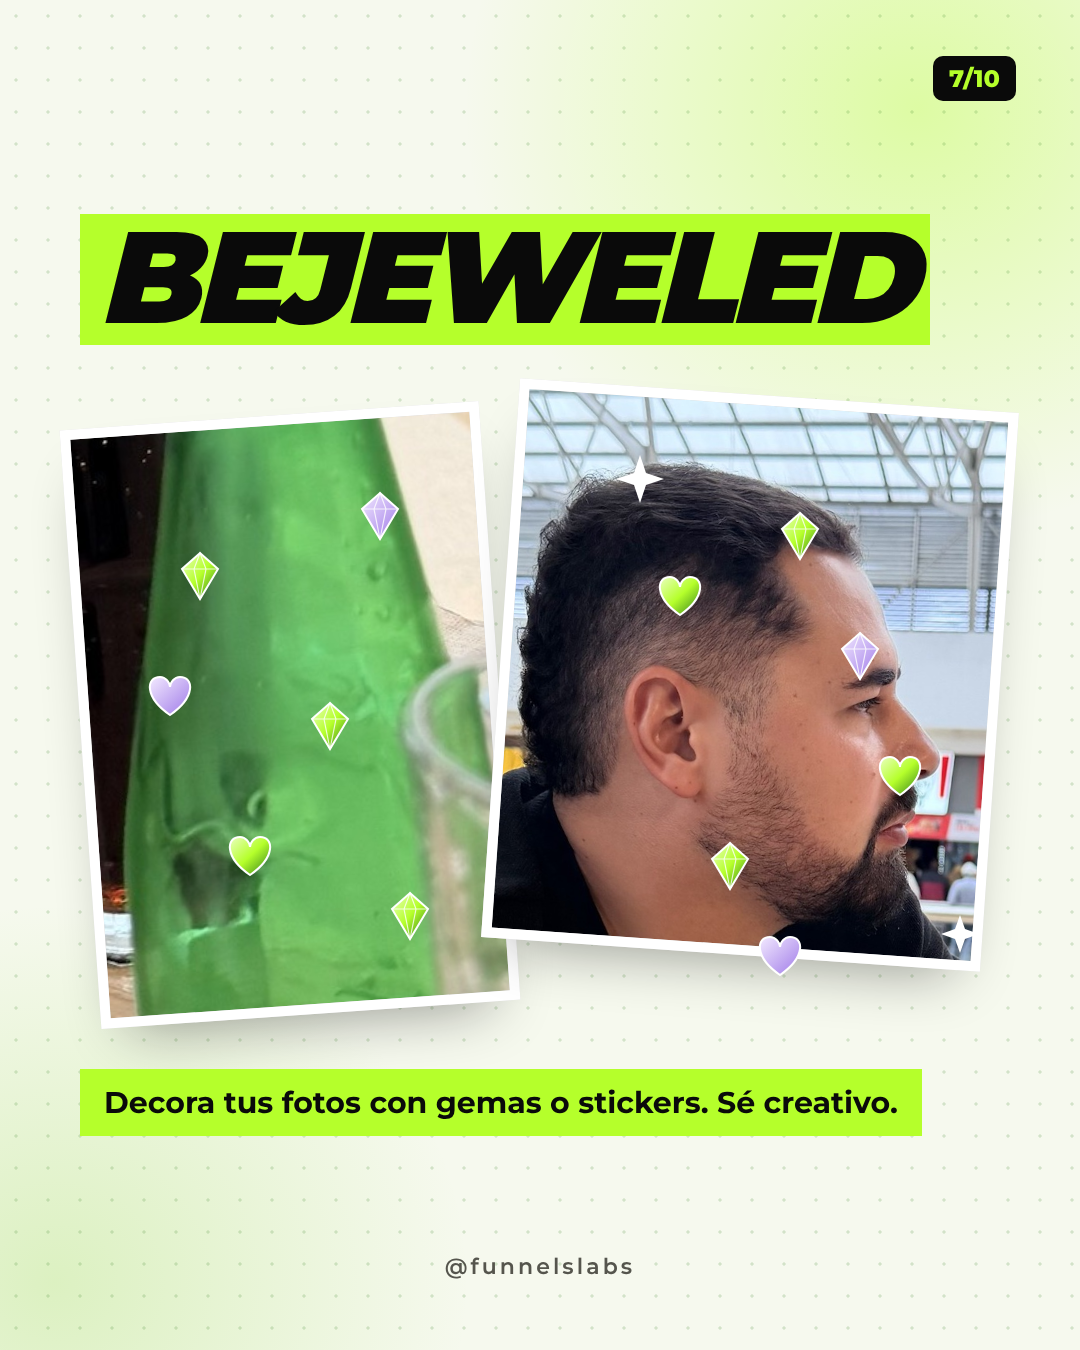
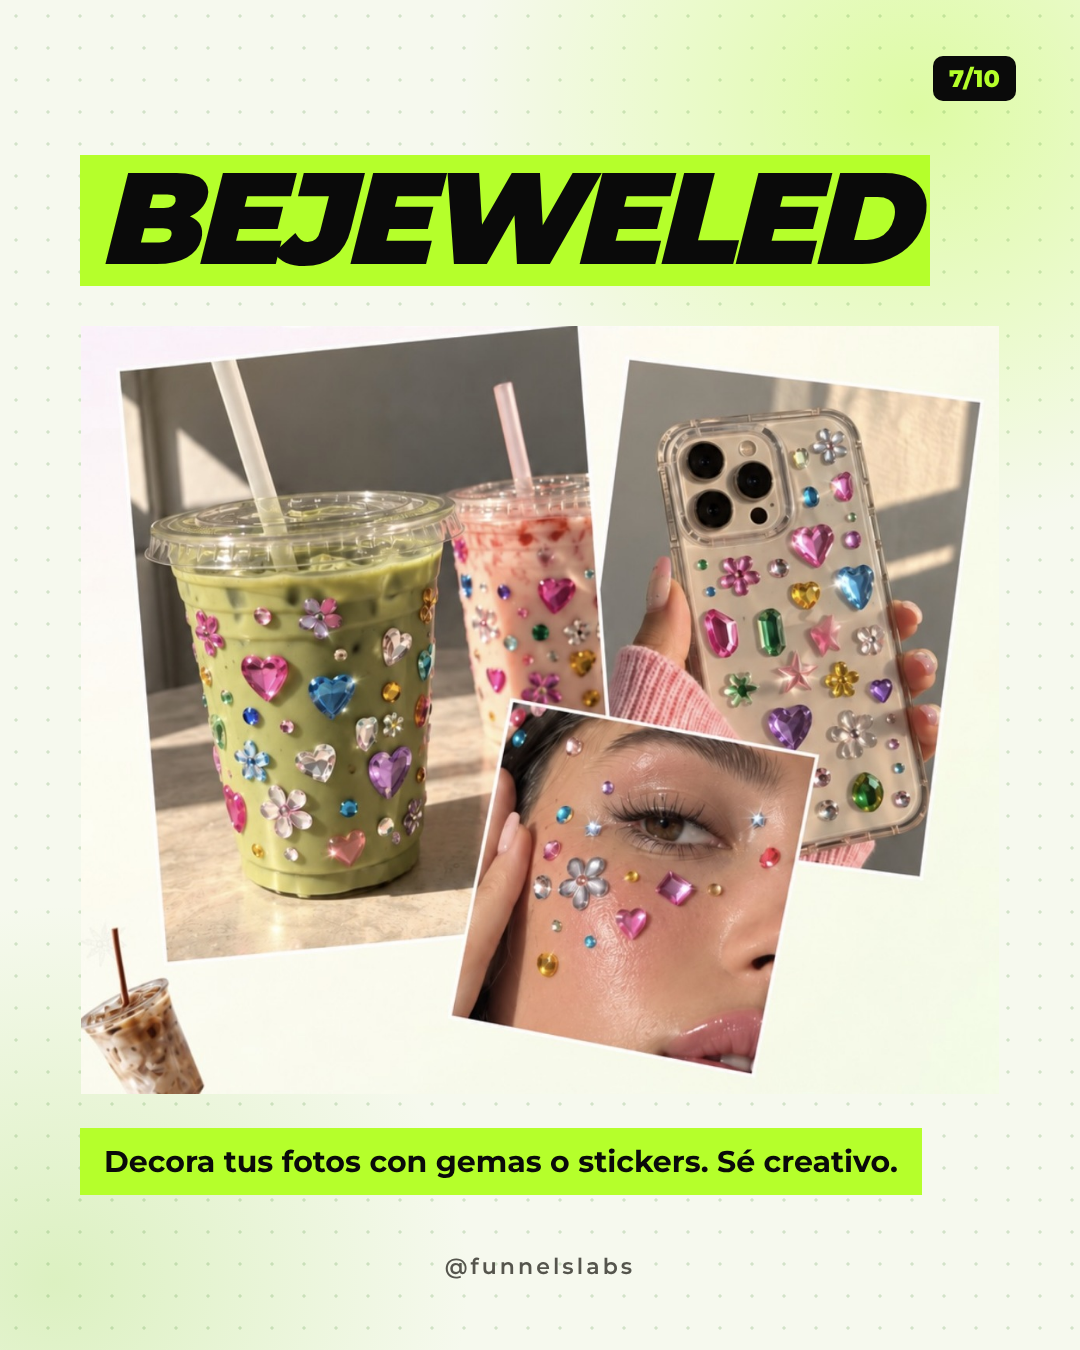
Ideas carruseles: imágenes del referente en verde, portada con foto completa
Claude-Session: https://claude.ai/code/session_018d4LXHkXweDJXxfN5x99dL

diff --git a/carruseles/ideas-carruseles/carrusel.html b/carruseles/ideas-carruseles/carrusel.html
@@ -23,14 +23,14 @@ body{background:#d9d9d2;font-family:"Montserrat",Arial,sans-serif;color:var(--in
 <!-- 1 PORTADA -->
 <section class="slide" style="padding:0">
   <img src="img/yo.jpg" style="position:absolute;inset:0;width:100%;height:100%;object-fit:cover;object-position:40% 30%">
-  <div style="position:absolute;inset:0;background:linear-gradient(180deg,rgba(246,249,238,0) 30%,rgba(246,249,238,.55) 52%,rgba(246,249,238,.96) 70%)"></div>
+  <div style="position:absolute;inset:0;background:linear-gradient(180deg,rgba(0,0,0,0) 45%,rgba(0,0,0,.55) 100%)"></div>
   <div class="n" style="background:var(--lime);color:var(--ink)">1/10</div>
-  <div style="position:absolute;left:64px;right:64px;bottom:90px">
+  <div style="position:absolute;left:64px;right:64px;bottom:80px;color:#fff;text-shadow:0 4px 24px rgba(0,0,0,.45)">
     <div class="T" style="font-size:132px">8 ideas de</div>
-    <div class="T hl" style="font-size:146px;margin-top:14px">carruseles</div>
+    <div class="T hl" style="font-size:146px;margin-top:14px;color:#0a0a0a;text-shadow:none">carruseles</div>
     <div class="T" style="font-size:92px;margin-top:20px">y posts en tendencia</div>
     <div style="font-weight:600;font-size:30px;letter-spacing:.32em;text-transform:uppercase;margin-top:28px">para tu negocio</div>
-    <div style="font-weight:600;font-size:22px;letter-spacing:.14em;color:#55554d;margin-top:36px">@funnelslabs</div>
+    <div style="font-weight:600;font-size:22px;letter-spacing:.14em;color:#e8e8e2;margin-top:36px">@funnelslabs</div>
   </div>
 </section>
 
@@ -39,15 +39,9 @@ body{background:#d9d9d2;font-family:"Montserrat",Arial,sans-serif;color:var(--in
   <div class="n">2/10</div>
   <div class="T" style="font-size:118px">Fondo</div>
   <div class="T hl" style="font-size:132px;align-self:flex-start;margin-top:10px">animado</div>
-  <div style="display:flex;gap:24px;margin-top:46px;align-items:flex-end">
-    <div class="ph" style="width:560px;height:620px;background:#eef6dd">
-      <svg style="position:absolute;inset:0" width="560" height="620" viewBox="0 0 560 620"><polygon fill="#b5ff2b" points="280,20 320,170 450,60 390,210 545,190 420,290 540,400 395,385 450,560 320,440 280,600 240,440 110,560 165,385 20,400 140,290 15,190 170,210 110,60 240,170"/><polygon fill="#7fd321" opacity=".55" points="280,120 305,220 380,160 345,250 440,245 360,300 430,370 345,355 375,460 300,385 280,490 260,385 185,460 215,355 130,370 200,300 120,245 215,250 180,160 255,220"/></svg>
-      <img src="img/cara.jpg" style="position:absolute;left:70px;top:90px;width:420px;height:440px;object-fit:cover;border-radius:24px;inset:auto;border:10px solid #fff">
-    </div>
-    <div class="ph" style="width:316px;height:460px;background:#fff">
-      <img src="img/botella.jpg" style="object-position:50% 40%">
-      <svg style="position:absolute;inset:0" width="316" height="460"><g fill="#b5ff2b" stroke="#0a0a0a" stroke-width="2"><circle cx="34" cy="40" r="14"/><circle cx="270" cy="70" r="18"/><circle cx="40" cy="210" r="12"/><circle cx="286" cy="230" r="14"/><circle cx="60" cy="400" r="16"/><circle cx="262" cy="410" r="12"/><circle cx="150" cy="30" r="10"/></g></svg>
-    </div>
+  <div style="display:flex;gap:20px;margin-top:46px;align-items:flex-end">
+    <div class="ph" style="width:620px;height:704px"><img src="ref/r2a.jpg"></div>
+    <div class="ph" style="width:300px;height:360px"><img src="ref/r2b.jpg"></div>
   </div>
   <div class="cap">Interviene el fondo para que la foto se vea más dinámica.</div>
   <div class="handle">@funnelslabs</div>
@@ -57,16 +51,9 @@ body{background:#d9d9d2;font-family:"Montserrat",Arial,sans-serif;color:var(--in
 <section class="slide">
   <div class="n">3/10</div>
   <div class="T hl" style="font-size:160px;align-self:flex-start">Sorbo</div>
-  <div style="display:flex;gap:24px;margin-top:50px">
-    <div class="ph" style="width:450px;height:560px;background:radial-gradient(circle at 50% 50%,#e9ffc4 0 40%,#7fd321 60%,#2f7a1c 100%)">
-      <div style="position:absolute;left:55px;top:90px;width:340px;height:340px;border-radius:50%;overflow:hidden;box-shadow:0 0 0 18px rgba(255,255,255,.55),0 0 0 34px rgba(181,255,43,.6),inset 0 0 40px rgba(0,0,0,.25)"><img src="img/cara.jpg" style="object-position:60% 40%"></div>
-      <div style="position:absolute;left:214px;top:300px;width:22px;height:280px;background:linear-gradient(90deg,#fff,#d9f7a8);border-radius:10px;transform:rotate(8deg);opacity:.9"></div>
-      <svg style="position:absolute;inset:0" width="450" height="560"><g fill="#fff" opacity=".7"><rect x="40" y="440" width="70" height="70" rx="14" transform="rotate(18 75 475)"/><rect x="330" y="430" width="80" height="80" rx="14" transform="rotate(-14 370 470)"/><rect x="20" y="40" width="54" height="54" rx="12" transform="rotate(30 47 67)"/></g></svg>
-    </div>
-    <div class="ph" style="width:450px;height:560px;background:radial-gradient(circle at 50% 50%,#ffffff 0 38%,#c9f27a 60%,#4f9e22 100%)">
-      <div style="position:absolute;left:55px;top:90px;width:340px;height:340px;border-radius:50%;overflow:hidden;box-shadow:0 0 0 18px rgba(255,255,255,.6),0 0 0 34px rgba(127,211,33,.5),inset 0 0 40px rgba(0,0,0,.25)"><img src="img/botella.jpg" style="object-position:50% 25%"></div>
-      <div style="position:absolute;left:214px;top:300px;width:22px;height:280px;background:linear-gradient(90deg,#b5ff2b,#2f7a1c);border-radius:10px;transform:rotate(-6deg)"></div>
-    </div>
+  <div style="display:flex;gap:20px;margin-top:50px">
+    <div class="ph" style="width:450px;height:560px"><img src="ref/r3a.jpg"></div>
+    <div class="ph" style="width:450px;height:560px"><img src="ref/r3b.jpg"></div>
   </div>
   <div class="cap">Toma la foto como si la viéramos desde adentro del vaso.</div>
   <div class="handle">@funnelslabs</div>
@@ -76,21 +63,7 @@ body{background:#d9d9d2;font-family:"Montserrat",Arial,sans-serif;color:var(--in
 <section class="slide">
   <div class="n">4/10</div>
   <div class="T" style="font-size:118px;margin-top:40px">Piedra, papel o…</div>
-  <div style="display:flex;gap:18px;margin-top:50px">
-    <div style="flex:1;height:520px;background:#e5f8c2;display:flex;flex-direction:column;align-items:center;padding-top:40px" class="ph">
-      <div class="T" style="font-size:60px;color:var(--g3)">Piedra</div>
-      <svg width="200" height="200" viewBox="0 0 100 100" style="margin-top:70px"><path d="M18 62 L26 30 L48 18 L74 26 L86 50 L78 76 L50 86 L26 80 Z" fill="#9a9a92"/><path d="M26 30 L48 40 L74 26 M48 40 L50 86" stroke="#7a7a72" stroke-width="2" fill="none"/></svg>
-    </div>
-    <div style="flex:1;height:520px;background:#e5f8c2;display:flex;flex-direction:column;align-items:center;padding-top:40px" class="ph">
-      <div class="T" style="font-size:60px;color:var(--g3)">Papel</div>
-      <svg width="190" height="220" viewBox="0 0 90 110" style="margin-top:60px"><path d="M12 8h46l20 20v74H12z" fill="#fff" stroke="#0a0a0a" stroke-width="3"/><path d="M58 8v20h20" fill="none" stroke="#0a0a0a" stroke-width="3"/><path d="M24 48h42M24 62h42M24 76h30" stroke="#9a9a92" stroke-width="4" stroke-linecap="round"/></svg>
-    </div>
-    <div style="flex:1;height:520px;background:var(--lime)" class="ph">
-      <img src="img/botella.jpg" style="object-position:50% 45%;mix-blend-mode:multiply;opacity:.95">
-      <div style="position:absolute;left:50%;top:52%;transform:translate(-50%,-50%) rotate(-6deg);background:#fff;border:3px solid var(--ink);padding:10px 14px;text-align:center"><div class="T" style="font-size:38px;line-height:.95">Tu<br>marca<br>aquí</div></div>
-      <svg style="position:absolute;left:30px;top:24px" width="240" height="80"><g stroke="#0a0a0a" stroke-width="6" stroke-linecap="round"><path d="M20 60 L45 20"/><path d="M215 60 L190 20"/></g></svg>
-    </div>
-  </div>
+  <div class="ph" style="width:920px;height:400px;margin-top:50px"><img src="ref/r4.jpg"></div>
   <div class="cap">Termina con tu producto o con la solución que ofreces.</div>
   <div class="handle">@funnelslabs</div>
 </section>
@@ -99,13 +72,9 @@ body{background:#d9d9d2;font-family:"Montserrat",Arial,sans-serif;color:var(--in
 <section class="slide">
   <div class="n">5/10</div>
   <div class="T" style="font-size:150px;margin-top:20px">La <span class="hl">pieza</span></div>
-  <div class="ph" style="width:920px;height:620px;margin-top:50px">
-    <img src="img/yo.jpg" style="object-position:40% 32%">
-    <svg style="position:absolute;inset:0" width="920" height="620" viewBox="0 0 920 620">
-      <g stroke="#fff" stroke-width="5" fill="none" opacity=".9"><path d="M307 0v620M613 0v620M0 310h920"/></g>
-      <path d="M613 330 h55 a28 28 0 1 1 56 0 h55 v90 a28 28 0 1 0 0 56 v90 h-90 a28 28 0 1 1 -56 0 h-20 z" fill="#f6f9ee" stroke="#b5ff2b" stroke-width="6"/>
-      <g transform="translate(700 70) rotate(18)"><path d="M0 0 h50 a26 26 0 1 1 52 0 h50 v80 a26 26 0 1 0 0 52 v80 h-152 z" fill="#b5ff2b" stroke="#0a0a0a" stroke-width="4"/></g>
-    </svg>
+  <div style="display:flex;gap:20px;margin-top:50px">
+    <div class="ph" style="width:450px;height:580px"><img src="ref/r5a.jpg"></div>
+    <div class="ph" style="width:450px;height:580px"><img src="ref/r5b.jpg"></div>
   </div>
   <div class="cap">Funciona muy bien si tienes fotos llamativas de tu negocio.</div>
   <div class="handle">@funnelslabs</div>
@@ -116,16 +85,8 @@ body{background:#d9d9d2;font-family:"Montserrat",Arial,sans-serif;color:var(--in
   <div class="n">6/10</div>
   <div class="T" style="font-size:120px;margin-top:20px">Agarra la</div>
   <div class="T" style="font-size:150px;color:var(--g3)">story</div>
-  <div class="ph" style="width:920px;height:640px;margin-top:40px">
-    <img src="img/yo.jpg" style="object-position:40% 60%">
-    <div style="position:absolute;left:-20px;right:-20px;top:70px;transform:rotate(-4deg);background:#0a0a0a;padding:22px 40px;display:flex;gap:34px;box-shadow:0 30px 50px -20px rgba(0,0,0,.6)">
-      <div style="text-align:center"><div style="width:120px;height:120px;border-radius:50%;background:#2a2a2a;box-shadow:0 0 0 5px #0a0a0a,0 0 0 9px #555"></div><div style="color:#fff;font-size:18px;margin-top:10px">Tu historia</div></div>
-      <div style="text-align:center;transform:scale(1.18) translateY(-6px)"><div style="width:120px;height:120px;border-radius:50%;overflow:hidden;box-shadow:0 0 0 5px #0a0a0a,0 0 0 10px #b5ff2b"><img src="img/cara.jpg" style="width:100%;height:100%;object-fit:cover;position:static"></div><div style="color:#fff;font-size:18px;margin-top:10px;font-weight:700">funnelslabs</div></div>
-      <div style="text-align:center"><div style="width:120px;height:120px;border-radius:50%;background:linear-gradient(135deg,#b5ff2b,#2f7a1c);box-shadow:0 0 0 5px #0a0a0a,0 0 0 9px #7fd321"></div><div style="color:#fff;font-size:18px;margin-top:10px">tips</div></div>
-      <div style="text-align:center"><div style="width:120px;height:120px;border-radius:50%;background:linear-gradient(135deg,#e5f8c2,#7fd321);box-shadow:0 0 0 5px #0a0a0a,0 0 0 9px #7fd321"></div><div style="color:#fff;font-size:18px;margin-top:10px">clientes</div></div>
-      <div style="text-align:center"><div style="width:120px;height:120px;border-radius:50%;background:linear-gradient(135deg,#c9a9ff,#b5ff2b);box-shadow:0 0 0 5px #0a0a0a,0 0 0 9px #7fd321"></div><div style="color:#fff;font-size:18px;margin-top:10px">ofertas</div></div>
-    </div>
-  </div>
+  <div class="ph" style="width:920px;height:740px;margin-top:40px;box-shadow:none;background:transparent"><img src="ref/r6.jpg">
+    <div style="position:absolute;left:332px;top:228px;width:180px;height:42px;background:#0a0a0a;transform:rotate(4.5deg);display:flex;align-items:center;justify-content:center;color:#fff;font-size:22px;font-weight:700">funnelslabs</div></div>
   <div class="cap">Usa las stories como gancho visual.</div>
   <div class="handle">@funnelslabs</div>
 </section>
@@ -134,19 +95,7 @@ body{background:#d9d9d2;font-family:"Montserrat",Arial,sans-serif;color:var(--in
 <section class="slide">
   <div class="n">7/10</div>
   <div class="T hl" style="font-size:130px;align-self:flex-start;margin-top:20px;font-style:italic">Bejeweled</div>
-  <div style="position:relative;height:640px;margin-top:50px">
-    <div class="ph" style="position:absolute;left:0;top:20px;width:420px;height:600px;transform:rotate(-4deg);border:10px solid #fff"><img src="img/botella.jpg" style="object-position:50% 40%"></div>
-    <div class="ph" style="position:absolute;right:0;top:0;width:500px;height:560px;transform:rotate(4deg);border:10px solid #fff"><img src="img/cara.jpg"></div>
-    <svg style="position:absolute;inset:0" width="920" height="640">
-      <defs><linearGradient id="gm" x1="0" y1="0" x2="1" y2="1"><stop offset="0" stop-color="#eaffc0"/><stop offset=".5" stop-color="#b5ff2b"/><stop offset="1" stop-color="#2f7a1c"/></linearGradient>
-      <linearGradient id="gm2" x1="0" y1="0" x2="1" y2="1"><stop offset="0" stop-color="#f3eaff"/><stop offset="1" stop-color="#9f7ae8"/></linearGradient>
-      <g id="dia"><path d="M0 -22 L18 -6 L0 24 L-18 -6 Z" stroke="#fff" stroke-width="2"/><path d="M-18 -6 H18 M0 -22 L-6 -6 L0 24 L6 -6 Z" stroke="#fff" stroke-width="1.2" fill="none" opacity=".8"/></g>
-      <g id="hrt"><path d="M0 20 C-26 2 -24 -18 -10 -18 C-4 -18 0 -12 0 -8 C0 -12 4 -18 10 -18 C24 -18 26 2 0 20 Z" stroke="#fff" stroke-width="2"/></g></defs>
-      <g fill="url(#gm)"><use href="#dia" x="120" y="180"/><use href="#dia" x="250" y="330" transform="scale(1)"/><use href="#hrt" x="170" y="460"/><use href="#dia" x="330" y="520"/><use href="#hrt" x="600" y="200"/><use href="#dia" x="720" y="140"/><use href="#hrt" x="820" y="380"/><use href="#dia" x="650" y="470"/></g>
-      <g fill="url(#gm2)"><use href="#hrt" x="90" y="300"/><use href="#dia" x="780" y="260"/><use href="#hrt" x="700" y="560"/><use href="#dia" x="300" y="120"/></g>
-      <g fill="#fff"><path d="M560 60 l6 18 18 6 -18 6 -6 18 -6 -18 -18 -6 18 -6z"/><path d="M880 520 l5 14 14 5 -14 5 -5 14 -5 -14 -14 -5 14 -5z"/></g>
-    </svg>
-  </div>
+  <div class="ph" style="width:920px;height:768px;margin-top:40px;box-shadow:none;background:transparent"><img src="ref/r7.jpg" style="object-fit:contain"></div>
   <div class="cap">Decora tus fotos con gemas o stickers. Sé creativo.</div>
   <div class="handle">@funnelslabs</div>
 </section>
@@ -156,13 +105,7 @@ body{background:#d9d9d2;font-family:"Montserrat",Arial,sans-serif;color:var(--in
   <div class="n">8/10</div>
   <div class="T hl" style="font-size:86px;align-self:flex-start;margin-top:20px">Comportamiento</div>
   <div class="T" style="font-size:130px;margin-top:8px">estrella</div>
-  <div style="position:relative;height:560px;margin-top:40px">
-    <div class="ph" style="position:absolute;left:0;top:0;width:520px;height:560px;transform:rotate(-3deg);border:10px solid #fff"><img src="img/yo.jpg" style="object-position:30% 35%"></div>
-    <div class="ph" style="position:absolute;right:0;top:40px;width:400px;height:500px;transform:rotate(4deg);border:10px solid #fff"><img src="img/botella.jpg" style="object-position:50% 40%"></div>
-    <svg style="position:absolute;inset:0" width="920" height="560"><defs><linearGradient id="st" x1="0" y1="0" x2="1" y2="1"><stop offset="0" stop-color="#f1ffd2"/><stop offset=".45" stop-color="#b5ff2b"/><stop offset="1" stop-color="#4f9e22"/></linearGradient>
-      <path id="s" d="M0 -40 L11 -12 L40 -12 L17 6 L25 36 L0 18 L-25 36 L-17 6 L-40 -12 L-11 -12 Z" stroke="#2f7a1c" stroke-width="2"/></defs>
-      <g fill="url(#st)"><use href="#s" x="70" y="70"/><use href="#s" x="430" y="110" transform="translate(-30 -20) scale(1)"/><use href="#s" x="110" y="440"/><use href="#s" x="470" y="380"/><use href="#s" x="620" y="110"/><use href="#s" x="860" y="200"/><use href="#s" x="740" y="480"/></g></svg>
-  </div>
+  <div class="ph" style="width:920px;height:568px;margin-top:40px;box-shadow:none;background:transparent"><img src="ref/r8.jpg" style="object-fit:contain"></div>
   <div class="cap" style="font-size:27px">Muestra lo que hace especial a tu marca: valores, personalidad y detalles que te diferencian.</div>
   <div class="handle">@funnelslabs</div>
 </section>
@@ -171,16 +114,8 @@ body{background:#d9d9d2;font-family:"Montserrat",Arial,sans-serif;color:var(--in
 <section class="slide">
   <div class="n">9/10</div>
   <div class="T hl" style="font-size:140px;align-self:flex-start;margin-top:20px">Ubicación</div>
-  <div style="position:relative;height:640px;margin-top:46px">
-    <div class="ph" style="position:absolute;left:0;top:0;width:560px;height:640px"><img src="img/yo.jpg" style="object-position:60% 40%"></div>
-    <div style="position:absolute;right:0;top:110px;width:430px;height:420px;transform:rotate(5deg);background:#eef3e6;border-radius:24px;overflow:hidden;box-shadow:0 40px 60px -30px rgba(0,0,0,.5);border:8px solid #fff">
-      <svg width="430" height="420" viewBox="0 0 430 420"><rect width="430" height="420" fill="#eef3e6"/><g stroke="#fff" stroke-width="18"><path d="M-10 120 L440 80"/><path d="M-10 300 L440 340"/><path d="M120 -10 L160 430"/><path d="M310 -10 L280 430"/></g><g fill="#cfe9a8"><rect x="20" y="150" width="80" height="110" rx="8"/><rect x="330" y="160" width="80" height="80" rx="8"/></g>
-        <text x="190" y="72" font-family="Montserrat" font-size="15" font-weight="600" fill="#6a6a62" transform="rotate(-5 190 72)">Av. Principal</text>
-        <path d="M215 120 c-34 0 -54 26 -54 54 c0 40 54 92 54 92 s54 -52 54 -92 c0 -28 -20 -54 -54 -54z" fill="#0a0a0a"/><circle cx="215" cy="174" r="20" fill="#b5ff2b"/></svg>
-      <div style="position:absolute;left:90px;top:290px;background:#fff;border-radius:14px;padding:12px 18px;box-shadow:0 10px 30px -10px rgba(0,0,0,.4)"><div style="font-weight:800;font-size:22px">Tu negocio</div><div style="font-size:16px;color:#55554d">Abierto · 9:00 a. m. – 7:00 p. m.</div></div>
-    </div>
-    <svg style="position:absolute;right:40px;top:40px" width="90" height="70"><g stroke="#0a0a0a" stroke-width="6" stroke-linecap="round"><path d="M10 60 L40 10"/><path d="M40 64 L80 34"/></g></svg>
-  </div>
+  <div class="ph" style="width:920px;height:764px;margin-top:40px;box-shadow:none;background:transparent"><img src="ref/r9.jpg" style="object-fit:contain">
+    <div style="position:absolute;left:556px;top:376px;width:250px;height:104px;background:#fff;border-radius:10px;transform:rotate(7deg);padding:10px 16px;box-shadow:0 6px 18px rgba(0,0,0,.18)"><div style="font-weight:800;font-size:24px">Tu negocio</div><div style="font-size:16px;color:#55554d">Abierto ahora</div></div></div>
   <div class="cap">Muestra dónde está tu negocio de una forma divertida.</div>
   <div class="handle">@funnelslabs</div>
 </section>
